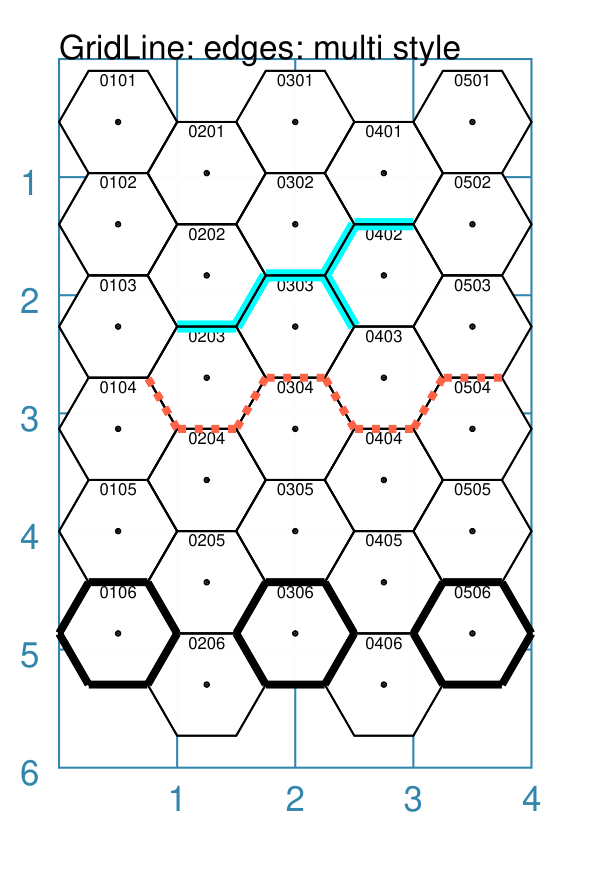
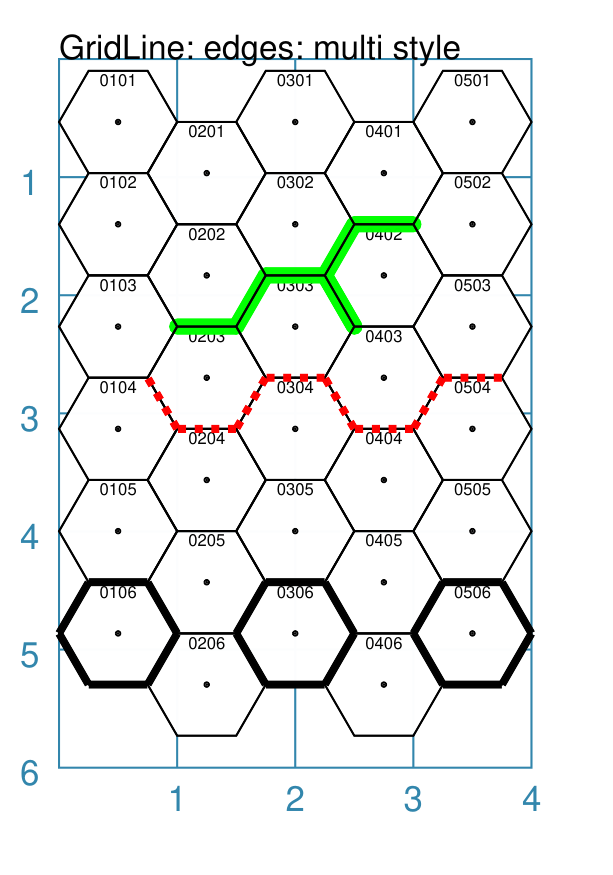
Working version of GridLine paths

diff --git a/protograf/proto.py b/protograf/proto.py
@@ -4559,12 +4559,14 @@ def Hexagons(rows=1, cols=1, sides=None, **kwargs):
                         centre=hxgn.geo.centre,
                         height=hxgn.geo.height,
                         side=hxgn.geo.side,
+                        # vertices  // FLAT
                         ne=hxgn.geo.ne,
                         se=hxgn.geo.se,
                         e=hxgn.geo.e,
                         w=hxgn.geo.w,
                         sw=hxgn.geo.sw,
                         nw=hxgn.geo.nw,
+                        # perbii // FLAT
                         n=hxgn.geo.n,
                         s=hxgn.geo.s,
                         wnw=hxgn.geo.wnw,
@@ -4652,12 +4654,14 @@ def Hexagons(rows=1, cols=1, sides=None, **kwargs):
                         centre=hxgn.geo.centre,
                         height=hxgn.geo.height,
                         side=hxgn.geo.side,
+                        # vertices  // FLAT
                         ne=hxgn.geo.ne,
                         se=hxgn.geo.se,
                         e=hxgn.geo.e,
                         w=hxgn.geo.w,
                         sw=hxgn.geo.sw,
                         nw=hxgn.geo.nw,
+                        # perbii // FLAT
                         n=hxgn.geo.n,
                         s=hxgn.geo.s,
                         wnw=hxgn.geo.wnw,
@@ -5044,6 +5048,9 @@ def GridLine(
         radius = geoms.length_of_line(start, centre)
         compass, rotate = geoms.angles_from_points(centre, start)
         angle_start = rotate
+        if kwargs.get("invert"):
+            angle_start = 360 - angle_start
+        # print(f'$$$ GridLine arc {centre=} {radius=} {angle_start=} {angle_width=}')
         aarc = arc(
             cxy=centre,
             radius=radius,
@@ -5067,30 +5074,38 @@ def GridLine(
             match pair:
                 # 120 degrees / short arc
                 case ["n", "ne"] | ["ne", "n"]:
-                    draw_arc(vertices[4], perbii["n"], 120.0, **kwargs)  # p5
+                    draw_arc(vertices["ne"], perbii["n"], 120.0, **kwargs)  # p5 OK
                 case ["se", "ne"] | ["ne", "se"]:
-                    draw_arc(vertices[3], perbii["ne"], 120.0, **kwargs)  # p4
+                    draw_arc(vertices["e"], perbii["ne"], -120.0, **kwargs)  # p4 OK
                 case ["se", "s"] | ["s", "se"]:
-                    draw_arc(vertices[2], perbii["se"], 120.0, **kwargs)  # p3
+                    draw_arc(vertices["se"], perbii["s"], -120.0, **kwargs)  # p3 OK
                 case ["sw", "s"] | ["s", "sw"]:
-                    draw_arc(vertices[1], perbii["s"], 120.0, **kwargs)  # p2
+                    draw_arc(vertices["sw"], perbii["s"], 120.0, **kwargs)  # p2 OK
                 case ["sw", "nw"] | ["nw", "sw"]:
-                    draw_arc(vertices[0], perbii["sw"], 120.0, **kwargs)  # p1
+                    draw_arc(vertices["w"], perbii["sw"], -120.0, **kwargs)  # p1 OK
                 case ["n", "nw"] | ["nw", "n"]:
-                    draw_arc(vertices[5], perbii["nw"], 120.0, **kwargs)  # p0
+                    draw_arc(vertices["nw"], perbii["n"], -120.0, **kwargs)  # p0 OK
                 # 60 degrees / long arc
                 case ["n", "se"] | ["se", "n"]:
-                    draw_arc(offset["b"], perbii["n"], 60.0, **kwargs)  # p5
+                    draw_arc(offset["NE"], perbii["n"], 60.0, **kwargs)  # p5
                 case ["ne", "s"] | ["s", "ne"]:
-                    draw_arc(offset["c"], perbii["ne"], 60.0, **kwargs)  # p4
+                    draw_arc(
+                        offset["SE"], perbii["ne"], 60.0, invert=True, **kwargs
+                    )  # p4
                 case ["se", "sw"] | ["sw", "se"]:
-                    draw_arc(offset["d"], perbii["se"], 60.0, **kwargs)  # p3
+                    draw_arc(
+                        offset["S"], perbii["se"], 60.0, invert=True, **kwargs
+                    )  # p3
                 case ["s", "nw"] | ["nw", "s"]:
-                    draw_arc(offset["e"], perbii["s"], 60.0, **kwargs)  # p2
+                    draw_arc(offset["SW"], perbii["s"], 60.0, **kwargs)  # p2
                 case ["sw", "n"] | ["n", "sw"]:
-                    draw_arc(offset["f"], perbii["sw"], 60.0, **kwargs)  # p1
+                    draw_arc(
+                        offset["NW"], perbii["sw"], 60.0, invert=True, **kwargs
+                    )  # p1
                 case ["nw", "ne"] | ["ne", "nw"]:
-                    draw_arc(offset["a"], perbii["nw"], 60.0, **kwargs)  # p0
+                    draw_arc(
+                        offset["N"], perbii["nw"], 60.0, invert=True, **kwargs
+                    )  # p0
                 # 90 degrees / straight line
                 case (
                     ["nw", "se"]
@@ -5113,28 +5128,28 @@ def GridLine(
         from_edge = perbis
         to_edge = directions[0]
         for index in range(0, len(directions)):
-            # ---- perbis pts // FLAT hex
+            # ---- perbii // FLAT hex
             perbii = {
                 "n": loc.geo.n,
-                "ne": loc.geo.nne,
-                "se": loc.geo.sse,
+                "ne": loc.geo.ene,
+                "se": loc.geo.ese,
                 "s": loc.geo.s,
-                "sw": loc.geo.ssw,
-                "nw": loc.geo.nnw,
+                "sw": loc.geo.wsw,
+                "nw": loc.geo.wnw,
             }
-            # ---- vertex pts // FLAT hex
-            #        0__5
-            #       1/  \4
+            # ---- vertices // FLAT hex
+            #     nw 0__5 ne
+            #     w 1/  \4 e
             #        \__/
-            #        2  3
-            vertices = [
-                loc.geo.nw,
-                loc.geo.w,
-                loc.geo.sw,
-                loc.geo.se,
-                loc.geo.e,
-                loc.geo.ne,
-            ]
+            #     sw 2  3 se
+            vertices = {
+                "nw": loc.geo.nw,
+                "w": loc.geo.w,
+                "sw": loc.geo.sw,
+                "se": loc.geo.se,
+                "e": loc.geo.e,
+                "ne": loc.geo.ne,
+            }
             # ---- calculate offset centres  // FLAT hex
             side_plus = loc.geo.side * 1.5
             h_flat = loc.geo.height / 2.0
@@ -5146,35 +5161,48 @@ def GridLine(
             #  E \___/ C
             #      D
             offsets = {
-                "a": Point(centre.x, centre.y - height_flat),
-                "b": Point(centre.x + side_plus, centre.y - h_flat),
-                "c": Point(centre.x + side_plus, centre.y + h_flat),
-                "d": Point(centre.x, centre.y + height_flat),
-                "e": Point(centre.x - side_plus, centre.y + h_flat),
-                "f": Point(centre.x - side_plus, centre.y - h_flat),
+                "N": Point(centre.x, centre.y - height_flat),
+                "NE": Point(centre.x + side_plus, centre.y - h_flat),
+                "SE": Point(centre.x + side_plus, centre.y + h_flat),
+                "S": Point(centre.x, centre.y + height_flat),
+                "SW": Point(centre.x - side_plus, centre.y + h_flat),
+                "NW": Point(centre.x - side_plus, centre.y - h_flat),
             }
             # ---- draw lines
             draw_path_lines([from_edge, to_edge], perbii, vertices, offsets, **kwargs)
             # ---- set next location
+            if index + 1 == len(directions):
+                continue
             col, row = 0, 0
-
             if to_edge in ["se", "ne"]:
                 col = 1
             if to_edge in ["nw", "sw"]:
                 col = -1
-            col = loc.col + col
-
-            if to_edge in ["nw", "ne", "n"]:
+            if to_edge in ["nw", "ne"]:
                 row = -1 if loc.col % 2 == 0 else 0  # even column 0,2,4
-            if to_edge in ["sw", "se", "s"]:
+            if to_edge in ["sw", "se"]:
                 row = 1 if loc.col % 2 == 1 else 0  # odd column 1,3,5
+            if to_edge in ["n"]:
+                row = -1
+            if to_edge in ["s"]:
+                row = 1
+            col = loc.col + col
             row = loc.row + row
-
-            # print(f'>>> >>> {col=}  {row=}')
             loc = get_starting_location("", col=col, row=row)
-
             # ---- set next pair of directions
-            from_edge = directions[index]
+            match directions[index]:
+                case "ne":
+                    from_edge = "sw"
+                case "se":
+                    from_edge = "nw"
+                case "n":
+                    from_edge = "s"
+                case "s":
+                    from_edge = "n"
+                case "nw":
+                    from_edge = "se"
+                case "sw":
+                    from_edge = "ne"
             to_edge = directions[index + 1] if index < (len(directions) - 1) else None
 
     kwargs = kwargs

diff --git a/examples/core/customised_hexagonal_grid_locations.py b/examples/core/customised_hexagonal_grid_locations.py
@@ -3,8 +3,8 @@ Show customised Hexagons grid locations and gridlines for protograf
 
 Written by: Derek Hohls
 Created on: 7 December 2024
+Updated on: 1 May 2026
 """
-
 from protograf import *
 
 Create(
@@ -200,8 +200,9 @@ GridLine(
     vertex="nw",
     edges="e,ne,e,se,nw,ne,e",
     common=Common(
-        stroke="cyan",
-        stroke_width=3)
+        stroke="green",
+        stroke_width=4,
+        stroke_ends="rounded")
 )
 Hexagons(
     side=0.5, x=0, y=0.1, rows=6, cols=5, fill=None)
@@ -211,13 +212,13 @@ GridLine(
     vertex="ne",
     edges=["w", "sw", "w", "nw"] * 2,
     common=Common(
-        stroke="tomato",
+        stroke="red",
         stroke_width=2,
         dotted=True)
 )
 GridLine(
     hexgrid,
-    start=["0106", "0306", "0506",],
+    start=["0106", "0306", "0506"],
     vertex="ne",
     edges="*",
     common=Common(
@@ -233,19 +234,32 @@ hexgrid = Hexagons(
     side=0.5,
     x=0, y=0.1,
     rows=6, cols=5,
-    dot=0.02,
-    coord_elevation='top'
 )
 GridLine(
     hexgrid,
-    start="0203",
-    perbis="n",
-    # paths="se,se,s",
-    # paths=["se","se","s",],
-    paths=["se",],
+    start="0103",
+    perbis="sw",
+    paths="ne,ne,se,se,se",
+    common=Common(
+        stroke="grey",
+        stroke_width=3)
+)
+GridLine(
+    hexgrid,
+    start="0106",
+    perbis="nw",
+    paths=["ne", "ne", "n", "se", "s", "se", "s"],
     common=Common(
         stroke="cyan",
-        stroke_width=4)
+        stroke_width=6)
+)
+Hexagons(
+    side=0.5,
+    x=0, y=0.1,
+    rows=6, cols=5,
+    dot=0.02,
+    coord_elevation='top',
+    fill=None
 )
 
 Save(
